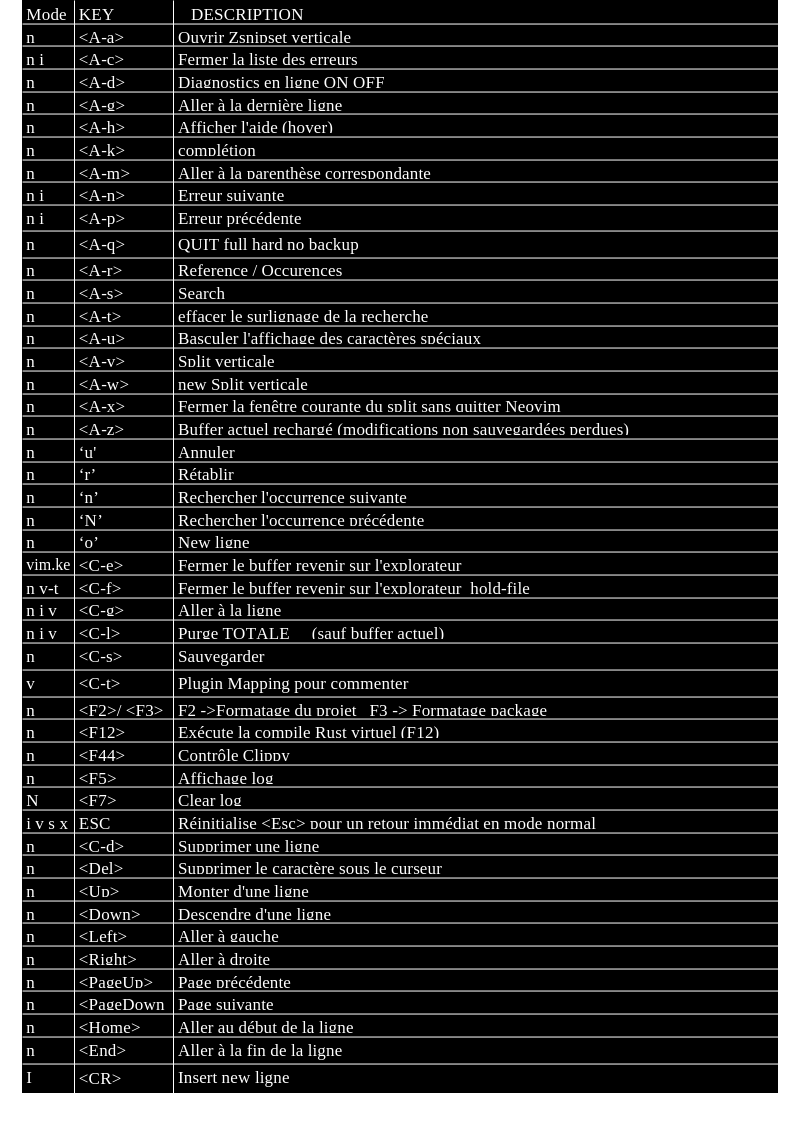
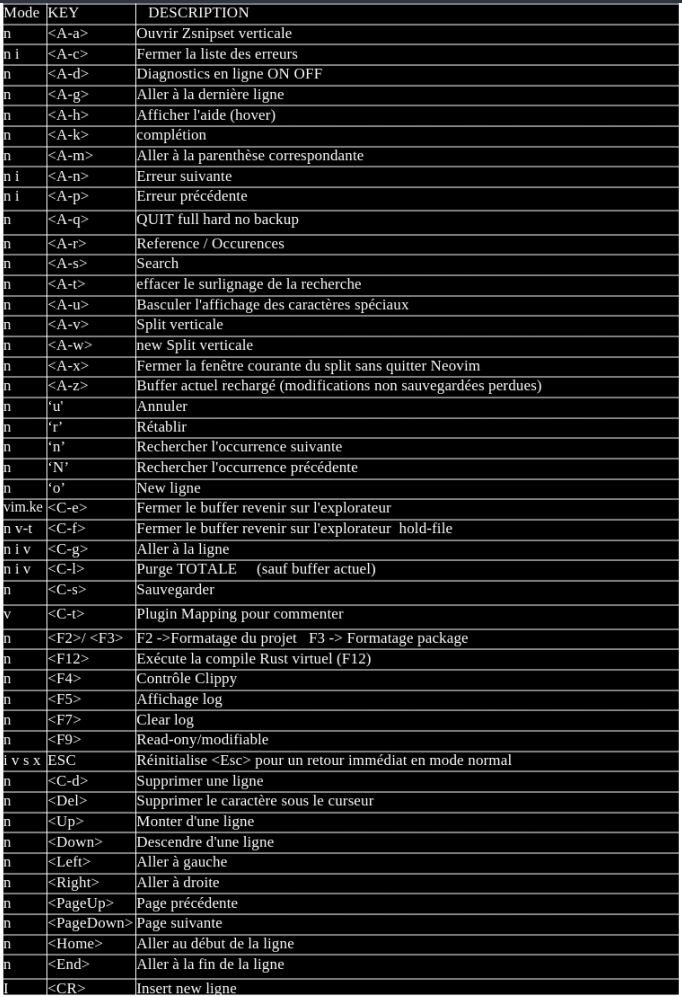
maj_20260924_19:10

diff --git a/README.md b/README.md
@@ -29,9 +29,11 @@ Because I can't spend all my time configuring an editor... 2 month Because I can
 |✅ |     Rust                        | nvim-comment plugin     |<C-t>                        |            |cohérence maximale        |
 |✅ |     Rust                        | ibl plugin              |¶, tabulations \t            |editorconfig|cohérence maximale        |
 |✅ | Navigation standard             | leader mappings         |Ctrl+c/Ctrl+v ......         |Neovims.png |                          |
-|✅ | Traçabilité                     | F5 Logs structurés      |Déjà intégré à votre workflow|            |utilisé goto definition   |
 |✅ | Formatage                       | F2 / F3 (cargo fmt)     |Standard et rapide           |            |                          |
 |✅ | Deteection error                | F4 Clippy               |Standard et rapide           |            |                          |
+|✅ | Traçabilité                     | F5 Logs structurés      |Déjà intégré à votre workflow|            |utilisé goto definition   |
+|✅ | Traçabilité                     | F7 clear log            |Standard et rapide           |            |                          |
+|✅ | Read-only / modifiable          | F9 read_only/modifiable |Standard et rapide           |            |                          |
 |✅ | Intégrité du projet             | F12 (cargo build check) |Vérification en un clic      |dialog      |                          |
 |✅ | Tabulations libres              | noexpandtab             |tabstop=4                    |            |Respect de vos préférences|
 |✅ | Gestion des buffers             | C-l Purge via raccourcis|Nettoyage facile             |            |                          |
@@ -180,6 +182,15 @@ At the same time, I fixed some issues that had arisen due to the change in termi
 **2026-09-11 15:20** update function A-w add vertiacal fz.
 <BR/>
 <BR/>
+
+
+<BR/>
+<BR/>
+**2026-09-24 19:06** add F9 read-only /modifable.
+<BR/>
+<BR/>
+
+
 
 <BR/>
 The F12 function has been unraveled, and shows you how to use the concept of dialogue for your errors.
